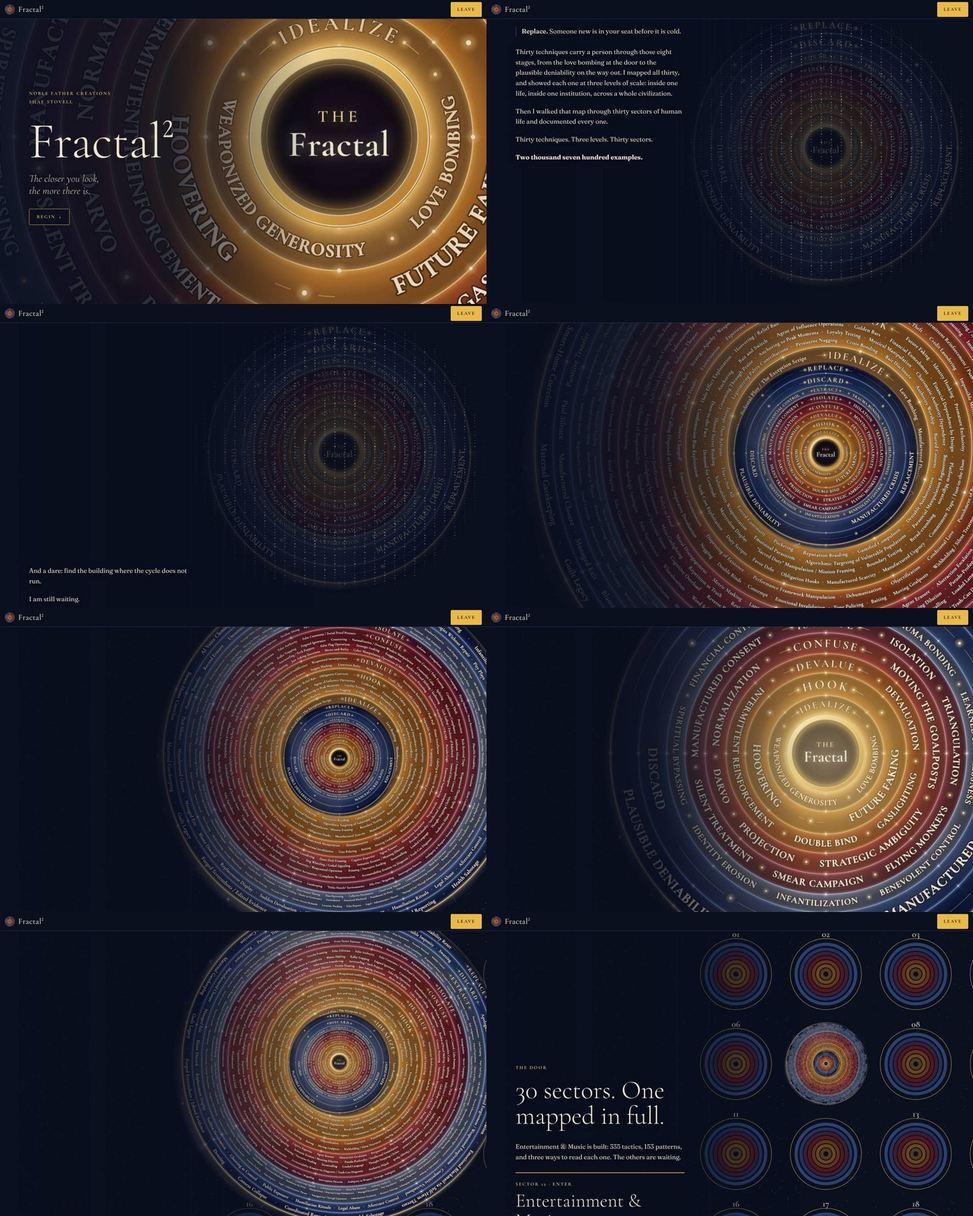
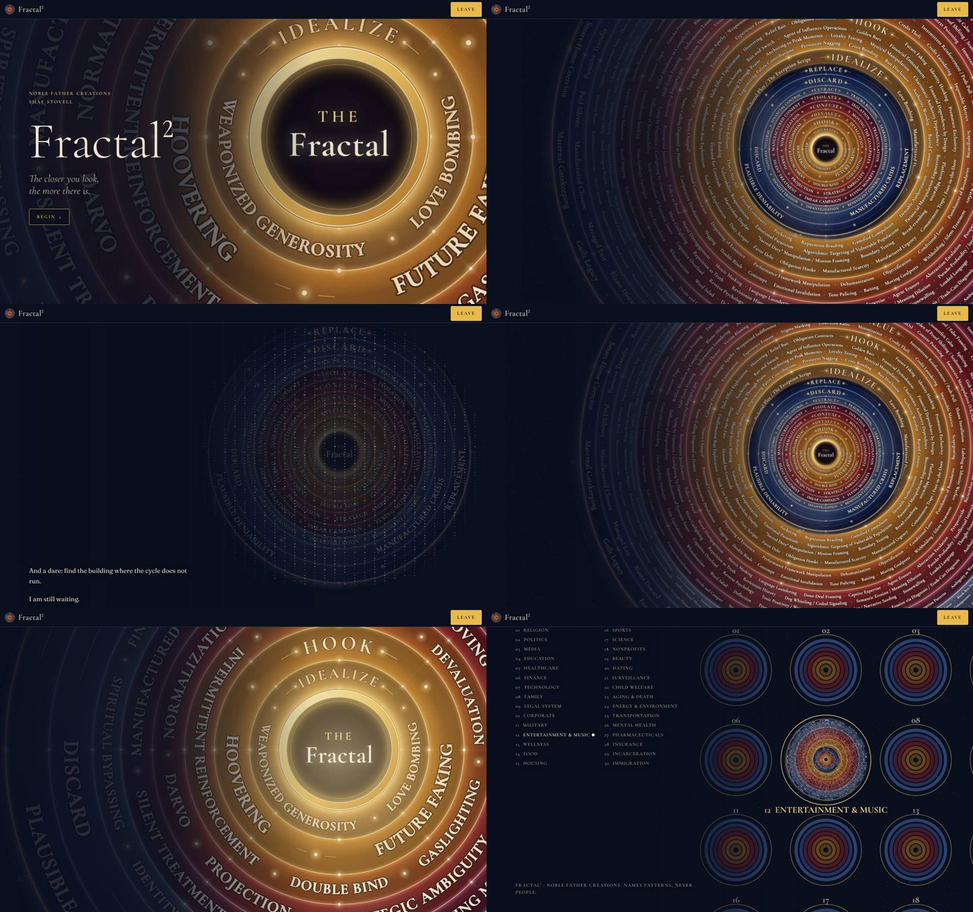
Fractal² intro v6: phone/landscape layouts, load and a11y audit, critic fixes (not deployed)
Claude-Session: https://claude.ai/code/session_013rW7RD2b1v2dndpKGtBqCE

diff --git a/design/fractal2/redesign/v6/index.html b/design/fractal2/redesign/v6/index.html
@@ -7,7 +7,7 @@
 <meta name="description" content="The original Fractal, pulled back until the full map of 335 tactics appears. A story about the shape that repeats in every building.">
 <meta name="theme-color" content="#0A0F1E">
 <link rel="icon" href="favicon.ico">
-<link rel="preload" as="image" href="img/orig-core.webp">
+<link rel="preload" as="image" imagesrcset="img/orig-core-m.webp 2048w, img/orig-core.webp 3072w" imagesizes="(max-width:959px) 600px, 2800px">
 <style>
 @font-face{font-family:"Cormorant";src:url(fonts/cormorant.woff2) format("woff2");font-weight:300 700;font-style:normal;font-display:swap}
 @font-face{font-family:"Cormorant";src:url(fonts/cormorant-italic.woff2) format("woff2");font-weight:300 700;font-style:italic;font-display:swap}
@@ -26,7 +26,8 @@ body{margin:0;background:var(--bg);color:var(--ink);font-family:"Fraunces",Georg
 .btn{min-height:44px;min-width:44px;padding:0 18px;border:1px solid var(--gold);background:var(--gold);color:#1A1405;font:700 14px/1 "Cormorant",serif;letter-spacing:.18em;text-transform:uppercase;border-radius:3px;cursor:pointer}
 /* the camera: one fixed stage behind everything. The page scroll moves the camera, never the picture's own edges. */
 #field{position:fixed;inset:0;width:100%;height:100%;z-index:0;pointer-events:none}
-#stage{position:fixed;inset:0;z-index:1;pointer-events:none;overflow:hidden}
+#stage{position:fixed;inset:0;z-index:1;pointer-events:none;overflow:hidden;opacity:0;transition:opacity 1.1s ease}
+.ready #stage{opacity:1}
 #cam{position:absolute;left:0;top:0;transform-origin:50% 50%;will-change:transform,opacity;contain:layout style}
 #cam img{position:absolute;display:block;max-width:none;user-select:none}
 #cam .orig{left:0;top:0;width:100%;height:100%}
@@ -66,9 +67,25 @@ main{position:relative;z-index:3}
  .scrim{background:linear-gradient(rgba(10,15,30,.5),rgba(10,15,30,.6))}
  .beat{--bh:170svh}
 }
+html.js:not(.ready) #pulse{opacity:.42!important}
+#pulse{transition:opacity .9s ease}
+html:not(.js) #stage,html:not(.js) .scrim,html:not(.js) #field,html:not(.js) #pulse,html:not(.js) .beat{display:none}
+.note{text-shadow:0 0 10px var(--bg),0 0 3px var(--bg)}
+@media (max-width:959px){.note{max-width:none;padding-top:44px;background:linear-gradient(rgba(10,15,30,0),rgba(10,15,30,.92) 38%)}.title{justify-content:flex-end}}
+@media (max-width:959px){.door{background:rgba(10,15,30,.84);padding:20px 18px;border-radius:4px}}
 @media (min-width:960px){
  .text{margin:0 0 0 64px;max-width:34rem;padding-top:calc(var(--bar) + 28px)}
  .note{margin-left:64px}
+}
+@media (min-width:640px) and (max-height:560px) and (orientation:landscape){
+ body{font-size:17px}
+ .text{margin:0 0 0 28px;max-width:25rem;padding:calc(var(--bar) + 12px) 0 30vh 0}
+ .note{margin-left:28px}
+ .scrim{background:linear-gradient(90deg,rgba(10,15,30,.9) 0,rgba(10,15,30,.84) 24rem,rgba(10,15,30,.5) 31rem,rgba(10,15,30,0) 44rem)}
+ .word{font-size:clamp(56px,10vw,96px)}.part h2{font-size:clamp(34px,6vw,52px)}
+ .title{min-height:calc(100svh - var(--bar) - 24px)}
+ .door{background:none;padding:0}
+ .beat{--bh:200svh}
 }
 @media (prefers-reduced-motion:reduce){.st li,#hl{transition:none}.beat{--bh:24svh}}
 </style>
@@ -82,9 +99,9 @@ main{position:relative;z-index:3}
 <canvas id="field" aria-hidden="true"></canvas>
 <div id="stage" role="img" aria-label="The Fractal, an eight-ring diagram of thirty techniques. The view begins at its centre and slowly pulls back until the full map of 335 tactics appears around it.">
   <div id="cam">
-    <img class="logo" id="logo" src="img/logo.webp" alt="" width="3072" height="3072" decoding="async">
-    <img class="orig" id="orig" src="img/orig.webp" alt="" width="3072" height="3072" decoding="async">
-    <img class="core" id="core" src="img/orig-core.webp" alt="" width="3072" height="3072" decoding="async">
+    <img class="logo" id="logo" data-src="img/logo.webp" data-srcset="img/logo-m.webp 2048w, img/logo.webp 3072w" sizes="(max-width:959px) 600px, 2800px" alt="" width="3072" height="3072" decoding="async">
+    <img class="orig" id="orig" src="img/orig.webp" srcset="img/orig-m.webp 2048w, img/orig.webp 3072w" sizes="(max-width:959px) 600px, 2800px" alt="" width="3072" height="3072" decoding="async">
+    <img class="core" id="core" fetchpriority="high" src="img/orig-core.webp" srcset="img/orig-core-m.webp 2048w, img/orig-core.webp 3072w" sizes="(max-width:959px) 600px, 2800px" alt="" width="3072" height="3072" decoding="async">
     <svg id="hl" viewBox="0 0 1000 1000" aria-hidden="true"><g style="opacity:0;transition:opacity .5s"><circle cx="500" cy="500" r="103.5" stroke="#F4D58A" stroke-opacity=".22" stroke-width="30"/><circle cx="500" cy="500" r="103.5" stroke="#FFE9A8" stroke-opacity=".8" stroke-width="2"/></g><g style="opacity:0;transition:opacity .5s"><circle cx="500" cy="500" r="148.0" stroke="#F4D58A" stroke-opacity=".22" stroke-width="30"/><circle cx="500" cy="500" r="148.0" stroke="#FFE9A8" stroke-opacity=".8" stroke-width="2"/></g><g style="opacity:0;transition:opacity .5s"><circle cx="500" cy="500" r="190.0" stroke="#F4D58A" stroke-opacity=".22" stroke-width="30"/><circle cx="500" cy="500" r="190.0" stroke="#FFE9A8" stroke-opacity=".8" stroke-width="2"/></g><g style="opacity:0;transition:opacity .5s"><circle cx="500" cy="500" r="231.0" stroke="#F4D58A" stroke-opacity=".22" stroke-width="30"/><circle cx="500" cy="500" r="231.0" stroke="#FFE9A8" stroke-opacity=".8" stroke-width="2"/></g><g style="opacity:0;transition:opacity .5s"><circle cx="500" cy="500" r="273.5" stroke="#F4D58A" stroke-opacity=".22" stroke-width="30"/><circle cx="500" cy="500" r="273.5" stroke="#FFE9A8" stroke-opacity=".8" stroke-width="2"/></g><g style="opacity:0;transition:opacity .5s"><circle cx="500" cy="500" r="312.0" stroke="#F4D58A" stroke-opacity=".22" stroke-width="30"/><circle cx="500" cy="500" r="312.0" stroke="#FFE9A8" stroke-opacity=".8" stroke-width="2"/></g><g style="opacity:0;transition:opacity .5s"><circle cx="500" cy="500" r="356.5" stroke="#F4D58A" stroke-opacity=".22" stroke-width="30"/><circle cx="500" cy="500" r="356.5" stroke="#FFE9A8" stroke-opacity=".8" stroke-width="2"/></g><g style="opacity:0;transition:opacity .5s"><circle cx="500" cy="500" r="414.5" stroke="#F4D58A" stroke-opacity=".22" stroke-width="30"/><circle cx="500" cy="500" r="414.5" stroke="#FFE9A8" stroke-opacity=".8" stroke-width="2"/></g></svg>
   </div>
 </div>
@@ -126,16 +143,16 @@ main{position:relative;z-index:3}
       <p data-z="1.0">Measure a coastline with a long ruler and you get one number. Measure it again with a shorter ruler, following every cove and inlet, and the coastline gets longer. Shorter again, and longer again. The closer you look, the more there is.</p>
       <p><em>The Fractal</em> drew thirty techniques. They were the backbone, the ones that appear in every building.</p>
       <p data-z="1.0">Then I looked closer.</p>
-      <div class="beat" style="--bh:260svh" aria-hidden="true"><i data-z="1.0" data-lit="1"></i><i data-z="0.31" data-lit="1"></i></div>
-      <p class="big" data-z="0.31"><b>The true map has more than three hundred.</b></p>
-      <p data-z="0.31">That is what the small ² stands for. <em>The Fractal</em>, turned on itself. The same eight stages, measured with a shorter ruler: three hundred and thirty-five distinct tactics inside a single sector, every one of them shown at all three levels of scale.</p>
+      <div class="beat" style="--bh:260svh" aria-hidden="true"><i data-z="1.0" data-lit="1"></i><i data-z="0.31" data-rest="1" data-lit="1"></i></div>
+      <p class="big" data-z="0.31" data-rest="1"><b>The true map has more than three hundred.</b></p>
+      <p data-z="0.31" data-rest="1">That is what the small ² stands for. <em>The Fractal</em>, turned on itself. The same eight stages, measured with a shorter ruler: three hundred and thirty-five distinct tactics inside a single sector, every one of them shown at all three levels of scale.</p>
       <p>More than a thousand observations for that one sector. Thirty sectors. That is where more than thirty thousand comes from: observations, counted one at a time, not a multiplication.</p>
       <p>The closer I looked, the further back I had to stand to hold what I found.</p>
     </section>
     <section class="part" id="piv"><p class="kick">Part IV</p><h2>One night</h2>
       <p class="note-in"><em>A note before you go further. This section shows, closely, how people are caught. If you are inside something like this now, do not confront anyone on the strength of a page. Tell one person who stands outside it. If you or anyone else is in danger, reach emergency services first. If a child is involved, child protection.</em></p>
       <p>What follows is a composite. It is no one person and no one label. Some version of it happens to people in the music industry every year.</p>
-      <p data-z="0.31">It is a Tuesday. You are twenty-three. A stranger has just written: <em>You're the one I've been waiting for.</em></p>
+      <p data-z="0.31" data-rest="1">It is a Tuesday. You are twenty-three. A stranger has just written: <em>You're the one I've been waiting for.</em></p>
       <p>By Friday there are voice notes. By Sunday a studio is booked in your name. Your shoulders drop for the first time in months. You feel chosen.</p>
       <p>You tell two friends. You cancel the other meeting, the small one, the one with the lawyer. It does not feel like a decision. It feels like gratitude.</p>
       <p>Then a note comes back: the second verse is not working. A week later: your last session was off. The warmth is still there, but it has started to track how well you do. You work harder to keep it.</p>
@@ -163,8 +180,8 @@ main{position:relative;z-index:3}
     <section class="part" id="pvii"><p class="kick">Part VII</p><h2>Down, not up</h2>
       <p>For thousands of years, people have tried to put this into words. I am not a scholar of any of these traditions. I can only tell you what I hear in them: that something real sits under everything laid on top of it, and that the way to it does not go up.</p>
       <p>You do not arrive by ascending. You go down.</p>
-      <ol class="st"><li data-z="0.31">Down through the sectors.</li><li data-z="0.34">Down through the techniques.</li><li data-z="0.37">Down through the mirror.</li><li data-z="0.40">Down through the body.</li><li data-z="0.43">Down through the chain, and the generations behind it.</li></ol>
-      <div class="beat" style="--bh:300svh" aria-hidden="true"><i data-z="0.43" data-lit="1" data-p="0"></i><i data-z="3.8" data-lit="1" data-p="1"></i></div>
+      <ol class="st"><li data-z="0.31" data-rest="1">Down through the sectors.</li><li data-z="0.34" data-rest="1">Down through the techniques.</li><li data-z="0.37" data-rest="1">Down through the mirror.</li><li data-z="0.40" data-rest="1">Down through the body.</li><li data-z="0.43" data-rest="1">Down through the chain, and the generations behind it.</li></ol>
+      <div class="beat" style="--bh:300svh" aria-hidden="true"><i data-z="0.43" data-rest="1" data-lit="1" data-p="0"></i><i data-z="3.8" data-lit="1" data-p="1"></i></div>
       <p data-z="3.8" data-p="1">And at the bottom, beneath every layer of capture, you find what was never captured at all. Your own signal. Uncaptured. Unmediated. Unmonetized. Yours.</p>
       <p>I walked it without a map. I drew this one so that you would not have to.</p>
     </section>
@@ -225,17 +242,21 @@ main{position:relative;z-index:3}
  function leave(){try{d.body.innerHTML=''}catch(e){}location.replace('about:blank')}
  d.getElementById('leave').addEventListener('click',leave);
  var last=0;addEventListener('keydown',function(e){if(e.key==='Escape'){var n=Date.now();if(n-last<600)leave();last=n}});
+ var core0=d.getElementById('core');function ready(){h.classList.add('ready')}
+ if(core0.complete&&core0.naturalWidth)ready();else{core0.addEventListener('load',ready);core0.addEventListener('error',ready);setTimeout(ready,4000)}
+ function lateLoad(){var lg=d.getElementById('logo');lg.srcset=lg.getAttribute('data-srcset');lg.src=lg.getAttribute('data-src')}
+ if(d.readyState==='complete')setTimeout(lateLoad,300);else addEventListener('load',function(){setTimeout(lateLoad,300)});
  var rm=matchMedia('(prefers-reduced-motion:reduce)').matches;
  var cam=d.getElementById('cam'),core=d.getElementById('core'),logo=d.getElementById('logo'),hl=d.getElementById('hl'),cv=d.getElementById('field'),cx2=cv.getContext('2d');
  var rings=[].slice.call(hl.querySelectorAll('g')),lis=[].slice.call(d.querySelectorAll('.st li'));
- var P=d.getElementById('pulse'),CELL=100,anchors=[].slice.call(d.querySelectorAll('[data-z]')),ys=[],W,Hh,D0,CX,CY,DPR,wide;
+ var P=d.getElementById('pulse'),ZR=1,CELL=100,anchors=[].slice.call(d.querySelectorAll('[data-z]')),ys=[],W,Hh,D0,CX,CY,DPR,wide;
  function clamp(v,a,b){return Math.min(b,Math.max(a,v))}
  function lerp(a,b,t){return a+(b-a)*t}
  function layout(){
-  W=innerWidth;Hh=innerHeight;wide=W>=960;DPR=Math.min(2,devicePixelRatio||1);
-  if(wide){var tw=64+544+56,av=W-tw-24;D0=Math.min(av*1.18,Hh*1.0);CX=tw+av/2-D0*0.04;CY=Hh*0.5}
-  else{D0=Math.min(W*0.94,Hh*0.56);CX=W/2;CY=Hh*0.4}
-  P.style.width=D0*1.3+'px';P.style.height=D0*1.3+'px';P.style.left=(CX-D0*0.65)+'px';P.style.top=(CY-D0*0.65)+'px';CELL=D0*0.30;
+  W=innerWidth;Hh=innerHeight;wide=W>=960||(W>=640&&W>Hh&&Hh<=560);DPR=Math.min(2,devicePixelRatio||1);
+  if(wide){var tr=d.querySelector('.text').getBoundingClientRect(),tw=tr.left+tr.width+(W>=960?56:24),av=W-tw-24;D0=Math.min(av*1.18,Hh*1.0);CX=tw+av/2-D0*0.04;CY=Hh*0.5}
+  else{D0=Math.min(W*0.94,Hh*0.56);CX=W/2;CY=Hh*0.32}
+  P.style.width=D0*1.3+'px';P.style.height=D0*1.3+'px';P.style.left=(CX-D0*0.65)+'px';P.style.top=(CY-D0*0.65)+'px';CELL=D0*0.30;ZR=wide?1.5:1;
   cam.style.width=D0+'px';cam.style.height=D0+'px';cam.style.left=(CX-D0/2)+'px';cam.style.top=(CY-D0/2)+'px';
   cv.width=W*DPR;cv.height=Hh*DPR;
   ys=anchors.map(function(el){var r=el.getBoundingClientRect();return r.top+scrollY+r.height/2});
@@ -255,6 +276,7 @@ main{position:relative;z-index:3}
    cx2.globalAlpha=a*0.85;
    for(var j=0;j<8;j++){cx2.beginPath();cx2.arc(x,y,cell*0.46*RN[j],0,6.2832);cx2.lineWidth=j===7?1.4:Math.max(1,cell*0.035);cx2.strokeStyle=j===7?'rgba(244,213,138,.8)':col[j];cx2.globalAlpha=a*(j===7?.8:.55);cx2.stroke()}
    cx2.globalAlpha=a*0.8;cx2.fillStyle='#EFE6D2';cx2.font='600 '+Math.max(11,cell*0.1)+'px Cormorant,serif';cx2.fillText(('0'+(i+1)).slice(-2),x,y+cell*0.56)}
+  cx2.globalAlpha=a;cx2.fillStyle='#F4D58A';cx2.font='700 '+Math.max(11,cell*0.1)+'px Cormorant,serif';cx2.fillText('12  ENTERTAINMENT & MUSIC',CX,CY+cell*0.56);cx2.beginPath();cx2.arc(CX,CY,cell*0.5,0,6.2832);cx2.strokeStyle='rgba(244,213,138,.9)';cx2.lineWidth=2;cx2.stroke();
   cx2.globalAlpha=1;
  }
  function draw(g,br,sy,at){
@@ -262,20 +284,20 @@ main{position:relative;z-index:3}
   cx2.setTransform(DPR,0,0,DPR,0,0);cx2.clearRect(0,0,W,Hh);
   var span=Hh*1.4,k=g>0.001;
   for(var pass=0;pass<6;pass++){
-   var gold=pass>=3,bk=pass%3,al=(0.3+0.6*br)*[.5,.75,1][bk]*(gold?1:.8)*(1+g*.8);
+   var gold=pass>=3,bk=pass%3,al=(0.3+0.6*br)*[.5,.75,1][bk]*(gold?1:.8)*(1+g*1.3);
    cx2.fillStyle=gold?'rgba(244,213,138,'+Math.min(1,al)+')':'rgba(220,226,245,'+Math.min(1,al)+')';
    for(var i=0;i<N;i++){var p=pts[i];if(p.gold!==gold||p.bk!==bk)continue;
     var x=p.u*W,y=((p.v*span-sy*p.dp*0.35)%span+span)%span-Hh*.2;
     if(k){var st=clamp(g*1.6-(i%90)/90*0.6,0,1);st=st*st*(3-2*st);x=lerp(x,gx[i],st);y=lerp(y,gy[i],st)}
-    var s=p.sz*(1+g*.9),f=1;if(k){var dd=Math.hypot(gx[i]-CX,gy[i]-CY),R=D0*0.5;f=1-st*clamp((dd-R*0.78)/(R*0.22),0,1)}if(f>0.02){cx2.globalAlpha=f;cx2.fillRect(x,y,s,s)}}}
+    var s=p.sz*(1+g*.9),f=1;if(k){var dd=Math.hypot(gx[i]-CX,gy[i]-CY),R=D0*0.5;f=1-st*clamp((dd-R*0.55)/(R*0.45),0,1)}if(f>0.02){cx2.globalAlpha=f;cx2.fillRect(x,y,s,s)}}}
   cx2.globalAlpha=1;
-  if(at>0.01)atlas(at);
+  if(at>0.01)atlas(wide?at:at*0.55);
  }
  function target(y){
   var line=y+Hh*(wide?0.55:0.7),i=0;for(var k=0;k<ys.length;k++){if(ys[k]<=line)i=k;else break}
   var A=anchors[i],B=anchors[Math.min(i+1,anchors.length-1)],t=(i<anchors.length-1&&ys[i+1]>ys[i])?clamp((line-ys[i])/(ys[i+1]-ys[i]),0,1):0;
   function v(el,k,df){var s=el.getAttribute('data-'+k);return s===null?df:+s}
-  var za=v(A,'z',1),zb=v(B,'z',za);
+  var za=v(A,'z',1)*(A.hasAttribute('data-rest')?ZR:1),zb=v(B,'z',v(A,'z',1))*(B.hasAttribute('data-rest')?ZR:1);if(!B.hasAttribute('data-z'))zb=za;
   return {z:Math.exp(lerp(Math.log(za),Math.log(zb),t)),lit:lerp(v(A,'lit',0),v(B,'lit',0),t),g:lerp(v(A,'g',0),v(B,'g',0),t),dim:lerp(v(A,'dim',0),v(B,'dim',0),t),p:lerp(v(A,'p',0),v(B,'p',0),t),a:lerp(v(A,'a',0),v(B,'a',0),t),hl:t<.5?v(A,'hl',-1):v(B,'hl',-1)}
  }
  var cur=null,raf=0,lastT=0;
@@ -284,6 +306,8 @@ main{position:relative;z-index:3}
   if(!cur||rm)cur={z:tg.z,lit:tg.lit,g:tg.g,dim:tg.dim,p:tg.p,a:tg.a,hl:tg.hl};
   else{var dt=Math.min(.05,(now-lastT)/1000||.016),k=1-Math.exp(-dt/.16);
    cur.z=Math.exp(lerp(Math.log(cur.z),Math.log(tg.z),k));cur.lit=lerp(cur.lit,tg.lit,k);cur.g=lerp(cur.g,tg.g,k);cur.dim=lerp(cur.dim,tg.dim,k);cur.p=lerp(cur.p,tg.p,k);cur.a=lerp(cur.a,tg.a,k);cur.hl=tg.hl}
+  var dg=Math.abs(Math.log(cur.z/tg.z))+Math.abs(cur.g-tg.g)+Math.abs(cur.dim-tg.dim)+Math.abs(cur.lit-tg.lit)+Math.abs(cur.p-tg.p)+Math.abs(cur.a-tg.a);
+  if(dg<0.004){cur.z=tg.z;cur.lit=tg.lit;cur.g=tg.g;cur.dim=tg.dim;cur.p=tg.p;cur.a=tg.a}
   lastT=now;
   var z=cur.z,base=wide?0.94:lerp(0.55,1,rm?0:cur.lit),op=base*(1-cur.dim*0.9);
   cam.style.transform='scale('+z.toFixed(4)+')';cam.style.opacity=op.toFixed(3);
@@ -295,11 +319,11 @@ main{position:relative;z-index:3}
   P.style.opacity=(cur.p*0.9).toFixed(3);P.style.transform='scale('+(0.8+0.3*cur.p).toFixed(3)+')';
   draw(cur.g,0.3+0.5*cur.lit-0.2*cur.a,scrollY,cur.a);
   logo.style.transform='translate(-50%,-50%) rotate('+(rm?0:(scrollY*0.0035).toFixed(3))+'deg)';
-  var diff=Math.abs(Math.log(cur.z/tg.z))+Math.abs(cur.g-tg.g)+Math.abs(cur.dim-tg.dim)+Math.abs(cur.lit-tg.lit);
-  if(!rm&&diff>0.002)raf=requestAnimationFrame(frame);
+  var diff=dg<0.004?0:1;
+  if(!rm&&diff>0)raf=requestAnimationFrame(frame);
  }
  function go(){if(!raf)raf=requestAnimationFrame(frame)}
- addEventListener('scroll',go,{passive:true});addEventListener('resize',function(){layout();go()});
+ addEventListener('scroll',go,{passive:true});var rt=0,lw=innerWidth,lh=innerHeight;addEventListener('resize',function(){clearTimeout(rt);rt=setTimeout(function(){if(innerWidth===lw&&Math.abs(innerHeight-lh)<140&&!wide){lh=innerHeight;return}lw=innerWidth;lh=innerHeight;layout();go()},150)});
  (d.fonts&&d.fonts.ready?d.fonts.ready:Promise.resolve()).then(function(){layout();go()});layout();go();
 })();
 </script>

diff --git a/design/fractal2/redesign/v6/template.html b/design/fractal2/redesign/v6/template.html
@@ -7,7 +7,7 @@
 <meta name="description" content="The original Fractal, pulled back until the full map of 335 tactics appears. A story about the shape that repeats in every building.">
 <meta name="theme-color" content="#0A0F1E">
 <link rel="icon" href="%%BASE%%favicon.ico">
-<link rel="preload" as="image" href="%%BASE%%img/orig-core.webp">
+<link rel="preload" as="image" imagesrcset="%%BASE%%img/orig-core-m.webp 2048w, %%BASE%%img/orig-core.webp 3072w" imagesizes="(max-width:959px) 600px, 2800px">
 <style>
 @font-face{font-family:"Cormorant";src:url(%%BASE%%fonts/cormorant.woff2) format("woff2");font-weight:300 700;font-style:normal;font-display:swap}
 @font-face{font-family:"Cormorant";src:url(%%BASE%%fonts/cormorant-italic.woff2) format("woff2");font-weight:300 700;font-style:italic;font-display:swap}
@@ -26,7 +26,8 @@ body{margin:0;background:var(--bg);color:var(--ink);font-family:"Fraunces",Georg
 .btn{min-height:44px;min-width:44px;padding:0 18px;border:1px solid var(--gold);background:var(--gold);color:#1A1405;font:700 14px/1 "Cormorant",serif;letter-spacing:.18em;text-transform:uppercase;border-radius:3px;cursor:pointer}
 /* the camera: one fixed stage behind everything. The page scroll moves the camera, never the picture's own edges. */
 #field{position:fixed;inset:0;width:100%;height:100%;z-index:0;pointer-events:none}
-#stage{position:fixed;inset:0;z-index:1;pointer-events:none;overflow:hidden}
+#stage{position:fixed;inset:0;z-index:1;pointer-events:none;overflow:hidden;opacity:0;transition:opacity 1.1s ease}
+.ready #stage{opacity:1}
 #cam{position:absolute;left:0;top:0;transform-origin:50% 50%;will-change:transform,opacity;contain:layout style}
 #cam img{position:absolute;display:block;max-width:none;user-select:none}
 #cam .orig{left:0;top:0;width:100%;height:100%}
@@ -66,9 +67,25 @@ main{position:relative;z-index:3}
  .scrim{background:linear-gradient(rgba(10,15,30,.5),rgba(10,15,30,.6))}
  .beat{--bh:170svh}
 }
+html.js:not(.ready) #pulse{opacity:.42!important}
+#pulse{transition:opacity .9s ease}
+html:not(.js) #stage,html:not(.js) .scrim,html:not(.js) #field,html:not(.js) #pulse,html:not(.js) .beat{display:none}
+.note{text-shadow:0 0 10px var(--bg),0 0 3px var(--bg)}
+@media (max-width:959px){.note{max-width:none;padding-top:44px;background:linear-gradient(rgba(10,15,30,0),rgba(10,15,30,.92) 38%)}.title{justify-content:flex-end}}
+@media (max-width:959px){.door{background:rgba(10,15,30,.84);padding:20px 18px;border-radius:4px}}
 @media (min-width:960px){
  .text{margin:0 0 0 64px;max-width:34rem;padding-top:calc(var(--bar) + 28px)}
  .note{margin-left:64px}
+}
+@media (min-width:640px) and (max-height:560px) and (orientation:landscape){
+ body{font-size:17px}
+ .text{margin:0 0 0 28px;max-width:25rem;padding:calc(var(--bar) + 12px) 0 30vh 0}
+ .note{margin-left:28px}
+ .scrim{background:linear-gradient(90deg,rgba(10,15,30,.9) 0,rgba(10,15,30,.84) 24rem,rgba(10,15,30,.5) 31rem,rgba(10,15,30,0) 44rem)}
+ .word{font-size:clamp(56px,10vw,96px)}.part h2{font-size:clamp(34px,6vw,52px)}
+ .title{min-height:calc(100svh - var(--bar) - 24px)}
+ .door{background:none;padding:0}
+ .beat{--bh:200svh}
 }
 @media (prefers-reduced-motion:reduce){.st li,#hl{transition:none}.beat{--bh:24svh}}
 </style>
@@ -82,9 +99,9 @@ main{position:relative;z-index:3}
 <canvas id="field" aria-hidden="true"></canvas>
 <div id="stage" role="img" aria-label="The Fractal, an eight-ring diagram of thirty techniques. The view begins at its centre and slowly pulls back until the full map of 335 tactics appears around it.">
   <div id="cam">
-    <img class="logo" id="logo" src="%%BASE%%img/logo.webp" alt="" width="3072" height="3072" decoding="async">
-    <img class="orig" id="orig" src="%%BASE%%img/orig.webp" alt="" width="3072" height="3072" decoding="async">
-    <img class="core" id="core" src="%%BASE%%img/orig-core.webp" alt="" width="3072" height="3072" decoding="async">
+    <img class="logo" id="logo" data-src="%%BASE%%img/logo.webp" data-srcset="%%BASE%%img/logo-m.webp 2048w, %%BASE%%img/logo.webp 3072w" sizes="(max-width:959px) 600px, 2800px" alt="" width="3072" height="3072" decoding="async">
+    <img class="orig" id="orig" src="%%BASE%%img/orig.webp" srcset="%%BASE%%img/orig-m.webp 2048w, %%BASE%%img/orig.webp 3072w" sizes="(max-width:959px) 600px, 2800px" alt="" width="3072" height="3072" decoding="async">
+    <img class="core" id="core" fetchpriority="high" src="%%BASE%%img/orig-core.webp" srcset="%%BASE%%img/orig-core-m.webp 2048w, %%BASE%%img/orig-core.webp 3072w" sizes="(max-width:959px) 600px, 2800px" alt="" width="3072" height="3072" decoding="async">
     <svg id="hl" viewBox="0 0 1000 1000" aria-hidden="true">%%HL%%</svg>
   </div>
 </div>
@@ -118,17 +135,21 @@ main{position:relative;z-index:3}
  function leave(){try{d.body.innerHTML=''}catch(e){}location.replace('about:blank')}
  d.getElementById('leave').addEventListener('click',leave);
  var last=0;addEventListener('keydown',function(e){if(e.key==='Escape'){var n=Date.now();if(n-last<600)leave();last=n}});
+ var core0=d.getElementById('core');function ready(){h.classList.add('ready')}
+ if(core0.complete&&core0.naturalWidth)ready();else{core0.addEventListener('load',ready);core0.addEventListener('error',ready);setTimeout(ready,4000)}
+ function lateLoad(){var lg=d.getElementById('logo');lg.srcset=lg.getAttribute('data-srcset');lg.src=lg.getAttribute('data-src')}
+ if(d.readyState==='complete')setTimeout(lateLoad,300);else addEventListener('load',function(){setTimeout(lateLoad,300)});
  var rm=matchMedia('(prefers-reduced-motion:reduce)').matches;
  var cam=d.getElementById('cam'),core=d.getElementById('core'),logo=d.getElementById('logo'),hl=d.getElementById('hl'),cv=d.getElementById('field'),cx2=cv.getContext('2d');
  var rings=[].slice.call(hl.querySelectorAll('g')),lis=[].slice.call(d.querySelectorAll('.st li'));
- var P=d.getElementById('pulse'),CELL=100,anchors=[].slice.call(d.querySelectorAll('[data-z]')),ys=[],W,Hh,D0,CX,CY,DPR,wide;
+ var P=d.getElementById('pulse'),ZR=1,CELL=100,anchors=[].slice.call(d.querySelectorAll('[data-z]')),ys=[],W,Hh,D0,CX,CY,DPR,wide;
  function clamp(v,a,b){return Math.min(b,Math.max(a,v))}
  function lerp(a,b,t){return a+(b-a)*t}
  function layout(){
-  W=innerWidth;Hh=innerHeight;wide=W>=960;DPR=Math.min(2,devicePixelRatio||1);
-  if(wide){var tw=64+544+56,av=W-tw-24;D0=Math.min(av*1.18,Hh*1.0);CX=tw+av/2-D0*0.04;CY=Hh*0.5}
-  else{D0=Math.min(W*0.94,Hh*0.56);CX=W/2;CY=Hh*0.4}
-  P.style.width=D0*1.3+'px';P.style.height=D0*1.3+'px';P.style.left=(CX-D0*0.65)+'px';P.style.top=(CY-D0*0.65)+'px';CELL=D0*0.30;
+  W=innerWidth;Hh=innerHeight;wide=W>=960||(W>=640&&W>Hh&&Hh<=560);DPR=Math.min(2,devicePixelRatio||1);
+  if(wide){var tr=d.querySelector('.text').getBoundingClientRect(),tw=tr.left+tr.width+(W>=960?56:24),av=W-tw-24;D0=Math.min(av*1.18,Hh*1.0);CX=tw+av/2-D0*0.04;CY=Hh*0.5}
+  else{D0=Math.min(W*0.94,Hh*0.56);CX=W/2;CY=Hh*0.32}
+  P.style.width=D0*1.3+'px';P.style.height=D0*1.3+'px';P.style.left=(CX-D0*0.65)+'px';P.style.top=(CY-D0*0.65)+'px';CELL=D0*0.30;ZR=wide?1.5:1;
   cam.style.width=D0+'px';cam.style.height=D0+'px';cam.style.left=(CX-D0/2)+'px';cam.style.top=(CY-D0/2)+'px';
   cv.width=W*DPR;cv.height=Hh*DPR;
   ys=anchors.map(function(el){var r=el.getBoundingClientRect();return r.top+scrollY+r.height/2});
@@ -148,6 +169,7 @@ main{position:relative;z-index:3}
    cx2.globalAlpha=a*0.85;
    for(var j=0;j<8;j++){cx2.beginPath();cx2.arc(x,y,cell*0.46*RN[j],0,6.2832);cx2.lineWidth=j===7?1.4:Math.max(1,cell*0.035);cx2.strokeStyle=j===7?'rgba(244,213,138,.8)':col[j];cx2.globalAlpha=a*(j===7?.8:.55);cx2.stroke()}
    cx2.globalAlpha=a*0.8;cx2.fillStyle='#EFE6D2';cx2.font='600 '+Math.max(11,cell*0.1)+'px Cormorant,serif';cx2.fillText(('0'+(i+1)).slice(-2),x,y+cell*0.56)}
+  cx2.globalAlpha=a;cx2.fillStyle='#F4D58A';cx2.font='700 '+Math.max(11,cell*0.1)+'px Cormorant,serif';cx2.fillText('12  ENTERTAINMENT & MUSIC',CX,CY+cell*0.56);cx2.beginPath();cx2.arc(CX,CY,cell*0.5,0,6.2832);cx2.strokeStyle='rgba(244,213,138,.9)';cx2.lineWidth=2;cx2.stroke();
   cx2.globalAlpha=1;
  }
  function draw(g,br,sy,at){
@@ -155,20 +177,20 @@ main{position:relative;z-index:3}
   cx2.setTransform(DPR,0,0,DPR,0,0);cx2.clearRect(0,0,W,Hh);
   var span=Hh*1.4,k=g>0.001;
   for(var pass=0;pass<6;pass++){
-   var gold=pass>=3,bk=pass%3,al=(0.3+0.6*br)*[.5,.75,1][bk]*(gold?1:.8)*(1+g*.8);
+   var gold=pass>=3,bk=pass%3,al=(0.3+0.6*br)*[.5,.75,1][bk]*(gold?1:.8)*(1+g*1.3);
    cx2.fillStyle=gold?'rgba(244,213,138,'+Math.min(1,al)+')':'rgba(220,226,245,'+Math.min(1,al)+')';
    for(var i=0;i<N;i++){var p=pts[i];if(p.gold!==gold||p.bk!==bk)continue;
     var x=p.u*W,y=((p.v*span-sy*p.dp*0.35)%span+span)%span-Hh*.2;
     if(k){var st=clamp(g*1.6-(i%90)/90*0.6,0,1);st=st*st*(3-2*st);x=lerp(x,gx[i],st);y=lerp(y,gy[i],st)}
-    var s=p.sz*(1+g*.9),f=1;if(k){var dd=Math.hypot(gx[i]-CX,gy[i]-CY),R=D0*0.5;f=1-st*clamp((dd-R*0.78)/(R*0.22),0,1)}if(f>0.02){cx2.globalAlpha=f;cx2.fillRect(x,y,s,s)}}}
+    var s=p.sz*(1+g*.9),f=1;if(k){var dd=Math.hypot(gx[i]-CX,gy[i]-CY),R=D0*0.5;f=1-st*clamp((dd-R*0.55)/(R*0.45),0,1)}if(f>0.02){cx2.globalAlpha=f;cx2.fillRect(x,y,s,s)}}}
   cx2.globalAlpha=1;
-  if(at>0.01)atlas(at);
+  if(at>0.01)atlas(wide?at:at*0.55);
  }
  function target(y){
   var line=y+Hh*(wide?0.55:0.7),i=0;for(var k=0;k<ys.length;k++){if(ys[k]<=line)i=k;else break}
   var A=anchors[i],B=anchors[Math.min(i+1,anchors.length-1)],t=(i<anchors.length-1&&ys[i+1]>ys[i])?clamp((line-ys[i])/(ys[i+1]-ys[i]),0,1):0;
   function v(el,k,df){var s=el.getAttribute('data-'+k);return s===null?df:+s}
-  var za=v(A,'z',1),zb=v(B,'z',za);
+  var za=v(A,'z',1)*(A.hasAttribute('data-rest')?ZR:1),zb=v(B,'z',v(A,'z',1))*(B.hasAttribute('data-rest')?ZR:1);if(!B.hasAttribute('data-z'))zb=za;
   return {z:Math.exp(lerp(Math.log(za),Math.log(zb),t)),lit:lerp(v(A,'lit',0),v(B,'lit',0),t),g:lerp(v(A,'g',0),v(B,'g',0),t),dim:lerp(v(A,'dim',0),v(B,'dim',0),t),p:lerp(v(A,'p',0),v(B,'p',0),t),a:lerp(v(A,'a',0),v(B,'a',0),t),hl:t<.5?v(A,'hl',-1):v(B,'hl',-1)}
  }
  var cur=null,raf=0,lastT=0;
@@ -177,6 +199,8 @@ main{position:relative;z-index:3}
   if(!cur||rm)cur={z:tg.z,lit:tg.lit,g:tg.g,dim:tg.dim,p:tg.p,a:tg.a,hl:tg.hl};
   else{var dt=Math.min(.05,(now-lastT)/1000||.016),k=1-Math.exp(-dt/.16);
    cur.z=Math.exp(lerp(Math.log(cur.z),Math.log(tg.z),k));cur.lit=lerp(cur.lit,tg.lit,k);cur.g=lerp(cur.g,tg.g,k);cur.dim=lerp(cur.dim,tg.dim,k);cur.p=lerp(cur.p,tg.p,k);cur.a=lerp(cur.a,tg.a,k);cur.hl=tg.hl}
+  var dg=Math.abs(Math.log(cur.z/tg.z))+Math.abs(cur.g-tg.g)+Math.abs(cur.dim-tg.dim)+Math.abs(cur.lit-tg.lit)+Math.abs(cur.p-tg.p)+Math.abs(cur.a-tg.a);
+  if(dg<0.004){cur.z=tg.z;cur.lit=tg.lit;cur.g=tg.g;cur.dim=tg.dim;cur.p=tg.p;cur.a=tg.a}
   lastT=now;
   var z=cur.z,base=wide?0.94:lerp(0.55,1,rm?0:cur.lit),op=base*(1-cur.dim*0.9);
   cam.style.transform='scale('+z.toFixed(4)+')';cam.style.opacity=op.toFixed(3);
@@ -188,11 +212,11 @@ main{position:relative;z-index:3}
   P.style.opacity=(cur.p*0.9).toFixed(3);P.style.transform='scale('+(0.8+0.3*cur.p).toFixed(3)+')';
   draw(cur.g,0.3+0.5*cur.lit-0.2*cur.a,scrollY,cur.a);
   logo.style.transform='translate(-50%,-50%) rotate('+(rm?0:(scrollY*0.0035).toFixed(3))+'deg)';
-  var diff=Math.abs(Math.log(cur.z/tg.z))+Math.abs(cur.g-tg.g)+Math.abs(cur.dim-tg.dim)+Math.abs(cur.lit-tg.lit);
-  if(!rm&&diff>0.002)raf=requestAnimationFrame(frame);
+  var diff=dg<0.004?0:1;
+  if(!rm&&diff>0)raf=requestAnimationFrame(frame);
  }
  function go(){if(!raf)raf=requestAnimationFrame(frame)}
- addEventListener('scroll',go,{passive:true});addEventListener('resize',function(){layout();go()});
+ addEventListener('scroll',go,{passive:true});var rt=0,lw=innerWidth,lh=innerHeight;addEventListener('resize',function(){clearTimeout(rt);rt=setTimeout(function(){if(innerWidth===lw&&Math.abs(innerHeight-lh)<140&&!wide){lh=innerHeight;return}lw=innerWidth;lh=innerHeight;layout();go()},150)});
  (d.fonts&&d.fonts.ready?d.fonts.ready:Promise.resolve()).then(function(){layout();go()});layout();go();
 })();
 </script>

diff --git a/design/fractal2/redesign/v6/build.py b/design/fractal2/redesign/v6/build.py
@@ -24,8 +24,8 @@ K = [
  ('Thirty techniques. Three levels', dict(z=1.0, g=0)), ('Two thousand seven hundred examples', dict(z=1.0, g=1, dim=.88)),
  ('And a dare', dict(z=1.0, g=0, dim=0)), ('A fractal has one more property', dict(z=1.0)), ('Measure a coastline', dict(z=1.0)),
  ('Then I looked closer.', dict(z=1.0)),
- ('The true map has more than three hundred', dict(z=0.31)), ('That is what the small', dict(z=0.31)),
- ('It is a Tuesday', dict(z=0.31)), ('Go back, now', dict(z=3.8)), ('Only now you know', dict(z=3.8)),
+ ('The true map has more than three hundred', dict(z=0.31, rest=1)), ('That is what the small', dict(z=0.31, rest=1)),
+ ('It is a Tuesday', dict(z=0.31, rest=1)), ('Go back, now', dict(z=3.8)), ('Only now you know', dict(z=3.8)),
  ('And at the bottom', dict(z=3.8, p=1)), ('I believe a world', dict(z=3.8, p=0.4)),
 ]
 def A(t, extra=''):
@@ -47,7 +47,7 @@ def render(lines, key):
         if raw.startswith('*A note before'): cls = 'note-in'
         out.append(f'<p{(" class=%s" % chr(34)+cls+chr(34)) if cls else ""}{A(t)}>{inline(raw)}</p>')
         if t.startswith('Two thousand seven hundred examples'): out.append(BEAT('data-z="1.0" data-g="1" data-dim=".88"', 'data-z="1.0" data-g="1" data-dim=".88"').replace('class="beat"', 'class="beat" style="--bh:90svh"'))
-        if t.startswith('Then I looked closer.'): out.append(BEAT('data-z="1.0" data-lit="1"', 'data-z="0.31" data-lit="1"').replace('class="beat"', 'class="beat" style="--bh:260svh"'))
+        if t.startswith('Then I looked closer.'): out.append(BEAT('data-z="1.0" data-lit="1"', 'data-z="0.31" data-rest="1" data-lit="1"').replace('class="beat"', 'class="beat" style="--bh:260svh"'))
     for ln in lines:
         s = ln.rstrip()
         if s.startswith('<!--steps-->'): flush(); ins = True; steps = []; continue
@@ -55,10 +55,10 @@ def render(lines, key):
             ins = False; lis = []
             for j, st in enumerate(steps):
                 if key == 'II' and nsteps == 0 and len(steps) == 8: lis.append(f'<li data-z="{EIGHT[j]}" data-hl="{j}">{inline(st)}</li>')
-                elif key == 'VII' and nsteps == 0: lis.append(f'<li data-z="{0.31 + j*0.03:.2f}">{inline(st)}</li>')
+                elif key == 'VII' and nsteps == 0: lis.append(f'<li data-z="{0.31 + j*0.03:.2f}" data-rest="1">{inline(st)}</li>')
                 else: lis.append(f'<li>{inline(st)}</li>')
             out.append('<ol class="st">' + ''.join(lis) + '</ol>')
-            if key == 'VII' and nsteps == 0: out.append(BEAT('data-z="0.43" data-lit="1" data-p="0"', 'data-z="3.8" data-lit="1" data-p="1"').replace('class="beat"', 'class="beat" style="--bh:300svh"'))
+            if key == 'VII' and nsteps == 0: out.append(BEAT('data-z="0.43" data-rest="1" data-lit="1" data-p="0"', 'data-z="3.8" data-lit="1" data-p="1"').replace('class="beat"', 'class="beat" style="--bh:300svh"'))
             nsteps += 1; continue
         if ins:
             if s.strip(): steps.append(s.strip())

diff --git a/content/fractal2/INTRO-V6-AUDIT.md b/content/fractal2/INTRO-V6-AUDIT.md
@@ -1,0 +1,20 @@
+# Fractal² intro v6: audit record (2026-11-11). NOT deployed.
+
+Source: `design/fractal2/redesign/v6/` (`python3 build.py [BASE]` -> `index.html`; for the live copy use BASE `/fractal2/_a/v6/` and copy `img/`, `fonts/`, `emblem-64.png`, `favicon.ico` there). Text: `content/fractal2/intro-story.md`, unchanged.
+
+## What it is
+One fixed full-screen camera over vector art drawn by `design/fractal2/logo.py` (30-technique original; 335-tactic map behind it at 3.2x, so the pull-back reveals it continuously). Four text-free scroll beats, damped camera, 2,700-point canvas field (30 x 90), 30-sector atlas ending, gold pulse on the return. Phone and landscape get their own layouts; phones get 2048 px images.
+
+## Checks run
+- Design gates (5 profiles incl. reduced motion): 0 FAIL. Warnings: software-rendered frame time under 4x throttle; gate's short settle time on "determinism" (settled positions measured identical: diff 0.0 to 0.003).
+- Devices (screenshots): 375x667, 390x844, 430x932, 844x390 landscape, 768x1024, 1280x720, 1440x900, 1920x1080. No horizontal overflow, no console errors. 320 px width and 200% text: no overflow.
+- No JavaScript: text readable, stage hidden. Reduced motion: beats shrink to 24svh, camera and parallax stop.
+- Structure: one h1, h2 per part, skip link target exists, 0 images without alt, canvas aria-hidden, Leave button labelled, first Tab stop is the skip link.
+- Load (slow 4G emulation): text paints at once; 0.9 MB (phone) / 1.3 MB (desktop) before the late-loaded outer-ring image; hero shows a soft glow until the art arrives.
+- Two independent critic passes (fresh agent, screenshots only). Pass 1: crispness 4, continuity 3, legibility 4/3, pacing 3, polish 4, originality 3, phone 3. Pass 2 (after fixes): crispness 4, continuity 4, legibility 3.5 desktop / 3 phone, pacing 3.5, polish 3.5, originality 4, phone 3. Fixes after pass 2 (atlas label, phone hero, footer gradient, larger rest zoom, brighter dots) have NOT been re-scored.
+- Skills: design-director process, design gates, critics. The impeccable, apple-design and emil sub-skills were NOT run.
+
+## Known gaps / owner decisions
+- Not a real-phone test (no device); Safari behaviour of a fixed canvas plus three large images is untested.
+- "The room again" differs from the opening by glow and a pulse only; making it mean more needs new copy (owner's call).
+- Hook finding on Fraunces awaits owner confirmation. Live site still shows v5 (deploy 6af479b2...).

diff --git a/MEMORY.md b/MEMORY.md
@@ -5019,3 +5019,4 @@ scratchpad/deploy2/hub refreshed. Still awaiting the owner's "deploy the homepag
 - Owner said the deployed v5 was worse than the old intro (blurry zoom, hard mask edge, instant small-to-big jump, no designs behind the words). Rebuilt as `design/fractal2/redesign/v6/` (`build.py` + `template.html` -> `index.html`; text unchanged from `content/fractal2/intro-story.md`). One fixed full-screen camera over the VECTOR art drawn by `logo.py` (`art/fractal-original.svg`, `art/fractal2-logo.svg`) rendered to 3072 px webp with a soft disc mask (`img/orig`, `orig-core` = centre 70% for the deep zoom, `logo`). The 335 map is physically behind the original at 3.2x, so pulling the camera back reveals it continuously. Four text-free scroll beats (count grid 90svh, pull-back 260svh, plunge 300svh, final 180svh), damped camera, 2,700-point canvas behind the words (30 columns x 90), 30-sector atlas at the end, gold pulse on the return.
 - Checks: design gates 0 FAIL on 5 profiles (warnings: throttled-software frame time, settle-timing nondeterminism). One independent critic pass on the first v6 build scored crispness 4, continuity 3, legibility 4 desktop/3 phone, pacing 3, polish 4, originality 3, phone 3; its six defects were fixed afterwards but NOT re-scored. Impeccable sub-skills were not run.
 - Live site is still v5 (deploy 6af479b2...). Preview zip and frames in `library/fractal2/review/v6/`. Open: owner OK to deploy v6 / roll back v5; Fraunces hook finding awaits owner confirmation; real-phone test.
+- (same day, later) v6 audited per `content/fractal2/INTRO-V6-AUDIT.md`: phone/landscape/tablet layouts, 2048 px phone images, deferred outer-ring image, no-JS and reduced-motion fallbacks, settle snap, atlas label, second critic pass. Gates 0 FAIL. Still not deployed; live is v5; owner wants nothing more until the intro is finished and audited.
